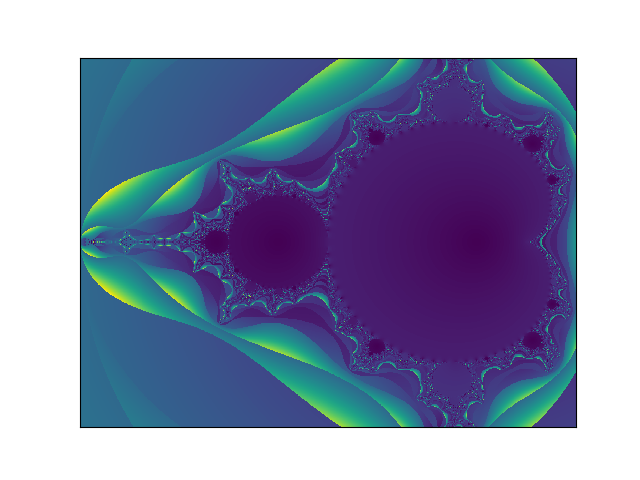
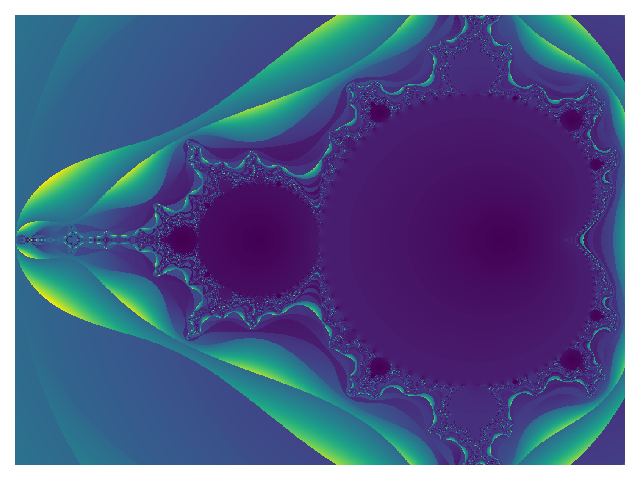
Updates graph plotting

diff --git a/ver-2.py b/ver-2.py
@@ -54,8 +54,8 @@ def Mandelbrot(quality, iterations, ver='A'):
     abs = np.abs(nums)
 
     plt.imshow(abs, interpolation='none', aspect='auto')
-    plt.xticks([])
-    plt.yticks([])
+    plt.axis('off')
+    plt.tight_layout()
 
     plt.savefig(f'./figs/v2{ver}-qual{int(quality)}_iter{int(iterations)}.png')
     plt.show()

diff --git a/ver-1(bad).py b/ver-1(bad).py
@@ -39,9 +39,10 @@ def graphVals(x1,x2,step):
 
 xVals, yVals = graphVals(-200,100,1)
 
-plt.xticks([])
-plt.yticks([])
 plt.scatter(xVals,yVals)
+plt.axis('off')
+plt.tight_layout()
+
 plt.savefig(f'./figs/v1-qual{300}_iter{2000}.png')
 plt.show()
 
